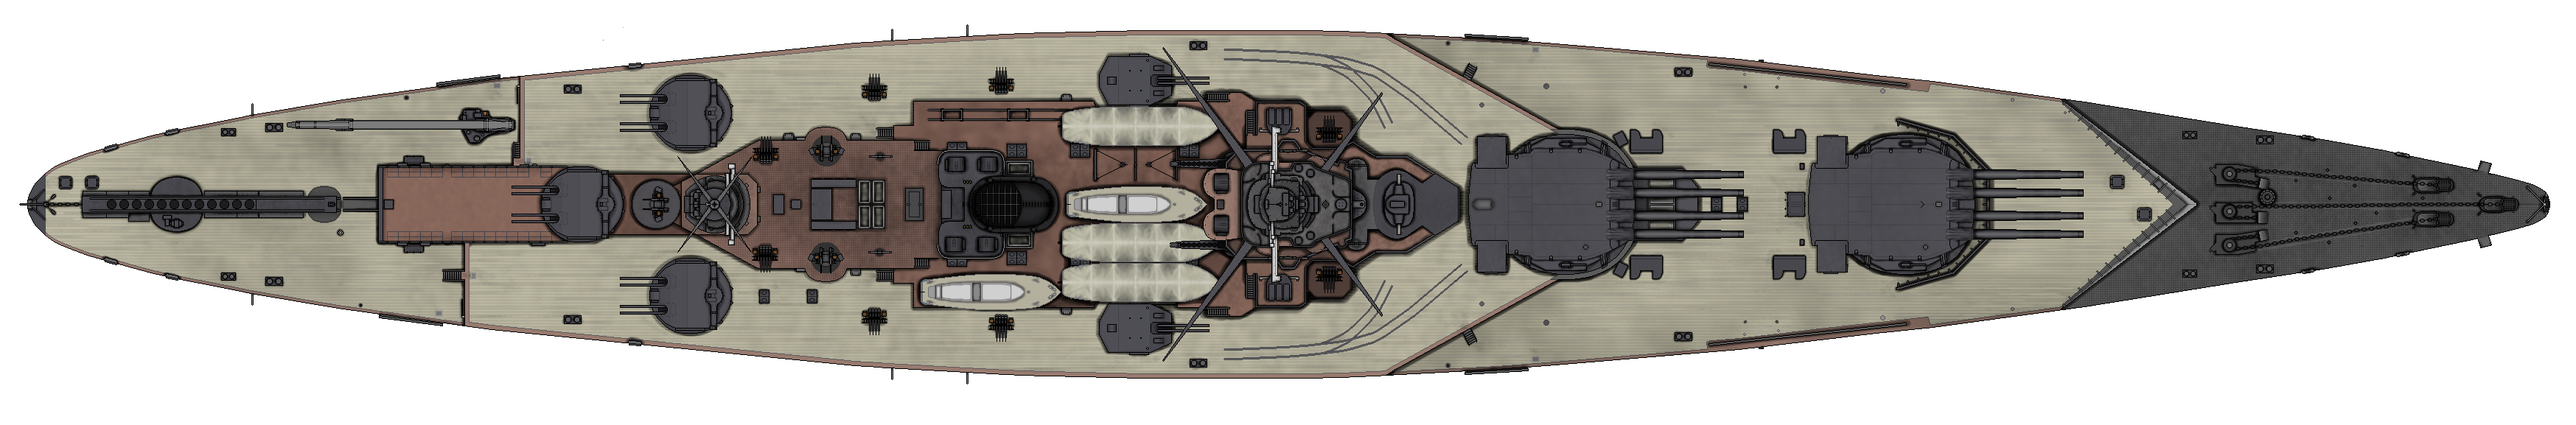
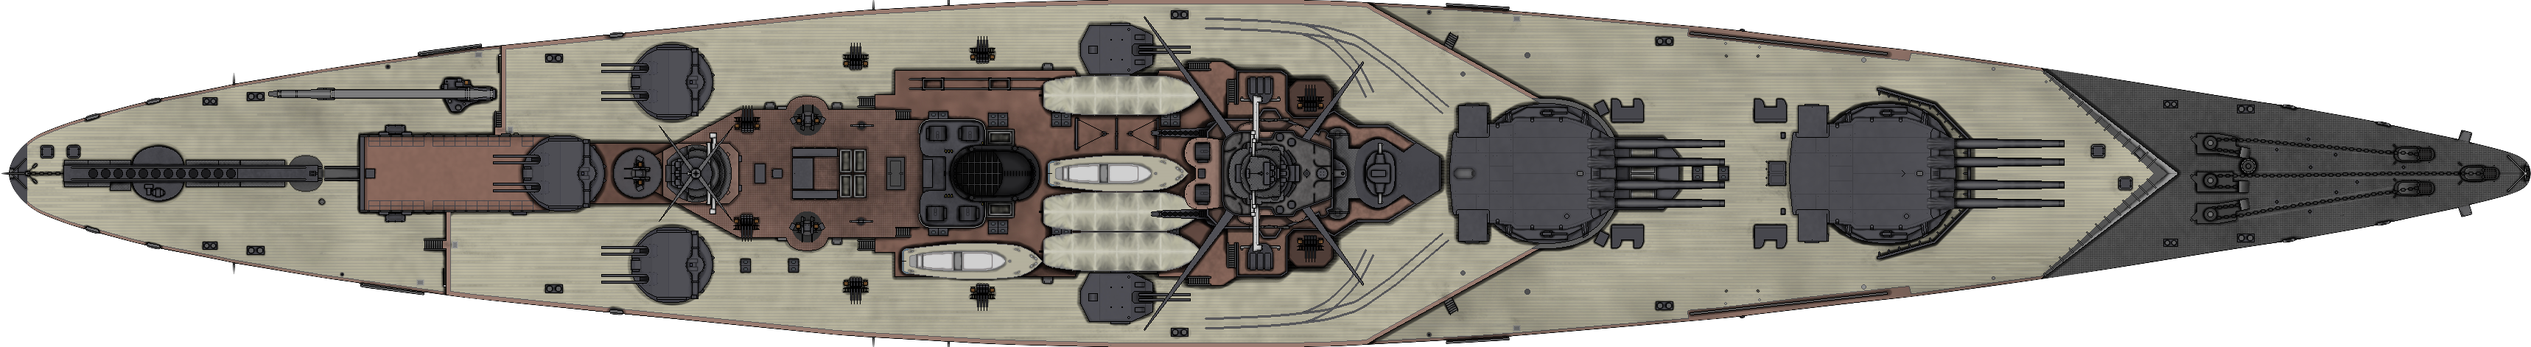
Спрайты башен, трансформ, инициализация башен

diff --git a/src/game/Game.java b/src/game/Game.java
@@ -4,6 +4,8 @@ import linAlg.Vector2.Vector2;
 
 import java.awt.*;
 import java.awt.image.BufferStrategy;
+import java.awt.image.ImageObserver;
+import java.awt.image.ImageProducer;
 
 import javax.swing.*;
 
@@ -67,26 +69,6 @@ public class Game extends Canvas implements Runnable {
             catch(Exception e) {}
         }
     }
-    private void init() {
-        scene = new Scene();
-
-        mainCamera = new GameObject();
-        mainCamera.addComponent(new Camera(frame.getWidth(), frame.getHeight()));
-        mainCamera.scene = scene;
-        GameObject.instantiate(mainCamera);
-
-        GameObject ship = new GameObject();
-        ship.transform.setLocalPosition(Vector2.getVector2(0, 100));
-        System.out.println(ship.transform.getPosition());
-        ship.transform.setLocalRotation(45);
-        ship.transform.setLocalScale(0.06);
-        RigidBody2d rigidBody2d = ship.addComponent(new RigidBody2d());
-        rigidBody2d.mass = 35000000;
-        ship.addComponent(new PlayerControl());
-        Sprite sprite = ship.addComponent(new Sprite(new ImageIcon("Resources/Dunkerk.png").getImage()));
-        GameObject.instantiate(ship);
-    }
-
     public static Scene getActiveScene() {
         return scene;
     }
@@ -99,4 +81,46 @@ public class Game extends Canvas implements Runnable {
         Renderer.sprites.forEach(sprite -> Renderer.draw(sprite, g));
         //game.Renderer.sprites.clear();
     }
+    private void init() {
+        scene = new Scene();
+
+        mainCamera = new GameObject();
+        mainCamera.addComponent(new Camera(frame.getWidth(), frame.getHeight()));
+        mainCamera.scene = scene;
+        GameObject.instantiate(mainCamera);
+
+        GameObject ship = new GameObject();
+        ship.transform.setLocalPosition(Vector2.getVector2(0, 0));
+        ship.transform.setLocalRotation(15);
+        ship.transform.setLocalScale(0.06);
+        RigidBody2d rigidBody2d = ship.addComponent(new RigidBody2d());
+        rigidBody2d.mass = 35000000;
+        rigidBody2d.velocity = Vector2.RIGHT.mul(0);
+        ship.addComponent(new PlayerControl());
+        ship.addComponent(new Sprite(new ImageIcon("Resources/Dunkerk.png").getImage()));
+        GameObject.instantiate(ship);
+
+        //3435x471
+        //1) зад низ 912,06 359,33
+        //2) зад ср 756,33 235,33
+        //3) зад верх 912,23 111,15
+        GameObject smallTurret = new GameObject();
+        smallTurret.addComponent(new Sprite(new ImageIcon("Resources/CUP3.png").getImage())).pivot.x = 60;
+        smallTurret.transform.setLocalPosition(Vector2.getVector2(-57.69, -0.33));
+        smallTurret.transform.setLocalRotation(180);
+        GameObject.instantiate(smallTurret, ship.transform);
+
+        GameObject mediumTurret = new GameObject();
+        mediumTurret.addComponent(new Sprite(new ImageIcon("Resources/CUP2.png").getImage())).pivot.x = 55;
+        mediumTurret.transform.setLocalPosition(Vector2.getVector2(-13.8, 10.7));
+        mediumTurret.transform.setLocalRotation(30);
+        GameObject.instantiate(mediumTurret, ship.transform);
+
+        GameObject bigTurret = new GameObject();
+        bigTurret.addComponent(new Sprite(new ImageIcon("Resources/CUP1.png").getImage())).pivot.x = 134;
+        bigTurret.transform.setLocalPosition(Vector2.getVector2(50, 0));
+        bigTurret.transform.setLocalRotation(60);
+        GameObject.instantiate(bigTurret, ship.transform);
+    }
+
 }

diff --git a/src/game/PlayerControl.java b/src/game/PlayerControl.java
@@ -1,5 +1,6 @@
 package game;
 
+import linAlg.Matrix3x3;
 import linAlg.Vector2.Vector2;
 import java.awt.event.KeyEvent;
 
@@ -14,15 +15,24 @@ public class PlayerControl extends Component {
     private RigidBody2d rigidBody2d;
     private int speed = 0; // from -3 to 5
     private int helm = 0; // from -2 to 2
+    private Vector2 helmPosition = Vector2.ZERO;
 
     public void start() {
         dragK = power*5/maxVelocity/maxVelocity;
         rigidBody2d = gameObject.getComponent(RigidBody2d.class);
+        Matrix3x3 t = Matrix3x3.Translate(Vector2.getVector2(10, 10));
+        Matrix3x3 r = Matrix3x3.Rotate(45);
+        System.out.println(r);
+        System.out.println(r.dot(Vector2.getVector2(50, 0)));
     }
 
     public void update() {
         getKeys();
         applyForces();
+        helmPosition = transform.getRIGHT().negative().mul(100);
+        for (Transform child : transform) {
+            //System.out.println(transform.localToWorldMatrix.dot(child.getLocalPosition()));
+        }
     }
     private void getKeys() {
         if (Input.isKey(KeyEvent.VK_W) && speed < 5) {
@@ -40,13 +50,13 @@ public class PlayerControl extends Component {
     }
     private void applyForces() {
         if (rigidBody2d != null) {
-            Vector2 sideVelocity = rigidBody2d.velocity
-                    .sub(rigidBody2d.velocity.mul(rigidBody2d.velocity.dot(gameObject.transform.getRIGHT())));
-            //rigidBody2d.addForce(sideVelocity.negative().mul(sideVelocity.magnitude() * angularK));
+            Vector2 sideVelocity = rigidBody2d.velocity.mul(rigidBody2d.velocity.dot(gameObject.transform.getUP()));
+            //System.out.println(sideVelocity.magnitude());
+            //rigidBody2d.addForceAtPosition(sideVelocity.negative().mul(sideVelocity.magnitude()), helmPosition);
             rigidBody2d.addForce(gameObject.transform.getRIGHT().mul(power * speed));
             rigidBody2d.addForce(rigidBody2d.velocity.negative()
                     .mul(rigidBody2d.velocity.magnitude() * dragK));
-            System.out.println(rigidBody2d.velocity.magnitude());
+            //System.out.println(rigidBody2d.velocity.magnitude());
             //System.out.println(gameObject.transform.getRIGHT().x + " " + gameObject.transform.getRIGHT().y);
         }
     }

diff --git a/src/game/Transform.java b/src/game/Transform.java
@@ -101,9 +101,9 @@ public class Transform extends Component implements Iterable<Transform> {
             worldToLocalMatrix = Matrix3x3.Rotate(-localRotation)
                     .dot(Matrix3x3.Translate(localPosition.negative()))
                     .dot(parent.worldToLocalMatrix);
-            position = transformPosition(localPosition);
-            rotation = localRotation + parent.rotation;
-            scale = localScale * parent.scale;
+            position = parent.transformPosition(localPosition);
+            rotation = parent.rotation + localRotation;
+            scale = parent.scale * localScale;
         }
         else {
             localToWorldMatrix = Matrix3x3.Translate(localPosition)

diff --git a/src/game/Camera.java b/src/game/Camera.java
@@ -19,8 +19,8 @@ public class Camera extends Component {
         if (width > 40000) {
             width = 40000;
         }
-        if (width < 500) {
-            width = 500;
+        if (width < 50) {
+            width = 50;
         }
     }
 }
